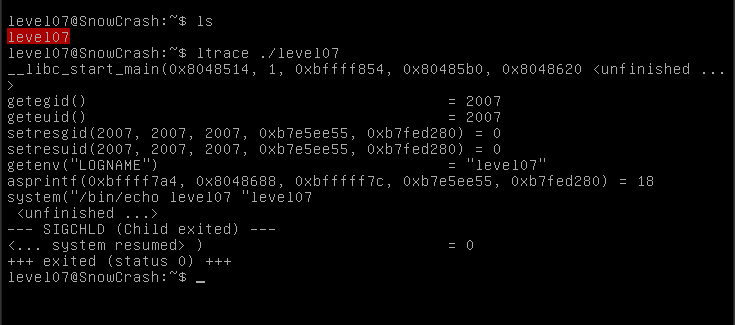
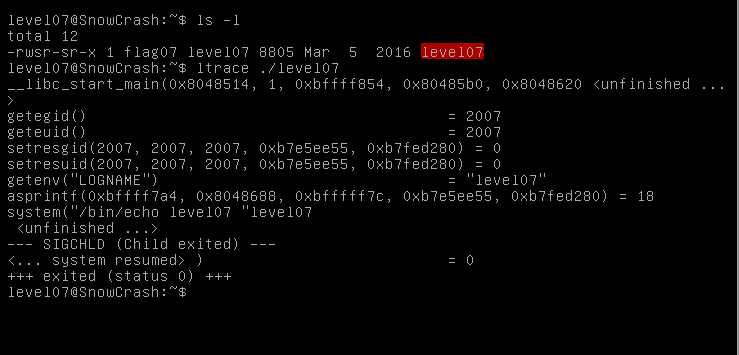
done all odd levels

Changed region(s): [[0.0, 0.0308, 0.9578, 0.8923], [0.9878, 0.0, 1.0, 1.0], [0.6286, 0.7077, 0.6585, 0.7692]]

diff --git a/level09/Ressources/decrypt.cpp b/level09/Ressources/decrypt.cpp
@@ -1,0 +1,18 @@
+#include <iostream>
+#include <fstream>
+#include <string>
+#include <algorithm>
+#include <vector>
+#include <numeric>
+
+int main(int ac, char **av)
+{
+	std::ifstream token(av[1]);
+	std::string hashed;
+	token >> hashed;
+	std::vector<char> indexes(hashed.size());
+	std::iota(indexes.begin(), indexes.end(), 0);
+	std::transform(hashed.begin(), hashed.end(), indexes.cbegin(), hashed.begin(), std::minus<>{});
+	std::cout << hashed << std::endl;
+	return 0;
+}

diff --git a/level11/Ressources/writeup.md b/level11/Ressources/writeup.md
@@ -1,0 +1,45 @@
+We find in our home a Lua script level11 with uid flag11. Let's learn it.
+
+    #!/usr/bin/env lua
+    local socket = require("socket")
+    local server = assert(socket.bind("127.0.0.1", 5151))
+    
+    function hash(pass)
+    prog = io.popen("echo "..pass.." | sha1sum", "r")
+    data = prog:read("*all")
+    prog:close()
+    
+    data = string.sub(data, 1, 40)
+    
+    return data
+    end
+    
+    
+    while 1 do
+    local client = server:accept()
+    client:send("Password: ")
+    client:settimeout(60)
+    local l, err = client:receive()
+    if not err then
+    print("trying " .. l)
+    local h = hash(l)
+    
+          if h ~= "f05d1d066fb246efe0c6f7d095f909a7a0cf34a0" then
+              client:send("Erf nope..\n");
+          else
+              client:send("Gz you dumb*\n")
+          end
+    
+    end
+    
+    client:close()
+    end
+
+This script accept TCP-connection with 127.0.0.1 at 5151 port.
+What will be sent over the connection, script will execute it using echo command and redirect output over pipe to sha1sum.
+We can redirect output to file before redirection over pipe
+So, Lua script execute with flag11 user permissions, we can inject `getflag` over the connection.
+
+![](./img/nc_inject.png)
+
+Password for level12: `fa6v5ateaw21peobuub8ipe6s`

diff --git a/level09/Ressources/writeup.md b/level09/Ressources/writeup.md
@@ -1,0 +1,27 @@
+We find in our home an executable file level09 with uid flag09 and a readable `token` file
+
+![](./img/cat_token.png)
+
+This string look like a something hashed. Try execute `ltrace` with level09
+
+![](./img/ltrace.png)
+
+`ltrace` output didn't get any help for us. Let's execute level09
+
+![](./img/level09.png)
+
+This program expects one argument. Give different arguments for it and look at result.
+
+![](./img/output_level09.png)
+
+You can notice program encrypt string argument, increasing each letter to it index.
+If level09 was used to encrypt string in token file, we can provide our program (decrypt.cpp in Ressources) to reverse it.
+
+    scp -P 4242 level09@<SnowCrash IP>:/etc/passwd <path in local machine>
+    g++ decrypt.cpp -o decrypt
+    chmod +r token
+    ./decrypt token
+
+We get password `f3iji1ju5yuevaus41q1afiuq` for flag09
+
+Password for level10: `s5cAJpM8ev6XHw998pRWG728z`

diff --git a/level13/Ressources/writeup.md b/level13/Ressources/writeup.md
@@ -1,0 +1,34 @@
+We find in our home executable file level13 with uid flag13. Try execute it.
+
+![](./img/level13.png)
+
+Output calls us program expect that it will be executed by user with uid 4242.
+Let's run `gdb` to look disassembly code.
+
+    gdb -q ./level13
+
+![](./img/disass_main.png)
+
+It do comparing after calling `getuid`. Let's put a breakpoint there.
+
+![](./img/breakpoint.png)
+
+We have two ways now:
+1. Jump to instructions if be whether comparing is true. And we will get password for level14
+
+    ![](./img/gdb_jump.png)
+
+2. Change comparing value:
+   - Print eax register to see, what program compares
+
+    ![](./img/gdb_eax.png)
+
+    - Compare this value with our uid
+
+   ![](./img/cat_passwd.png)   
+
+    - Change eax value and resume the program. We will get password for level14
+
+   ![](./img/gdb_change.png)
+
+Password for level14: `2A31L79asukciNyi8uppkEuSx`

diff --git a/level07/Ressources/writeup.md b/level07/Ressources/writeup.md
@@ -1,0 +1,24 @@
+In our home directory there is an executable file level07 with uid flag07.
+We can use `ltrace` to take a look at the functions called in this executable.
+
+    ltrace ./level07
+
+![](./img/ltrace.png)
+
+There use `getenv("LOGNAME)` and get value of this environment variable, then with `asprintf` fill a string. In conclusion `system()`
+call `/bin/echo` with a parameter `level07`. Let's make sure, program print value of LOGNAME
+
+    echo $LOGNAME
+    ./level07
+
+![](./img/logname.png)
+
+Yes, this is right. We can replace LOGNAME value to `getflag`.
+So level07 execute with flag07 permissions, we will get password from level08.
+
+    export LOGNAME="&& getflag"
+    ./level07
+
+![](./img/exploit.png)
+
+We get password for level08: `fiumuikeil55xe9cu4dood66h`
